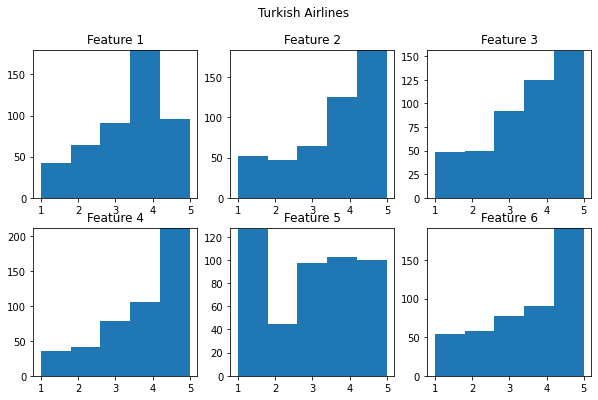
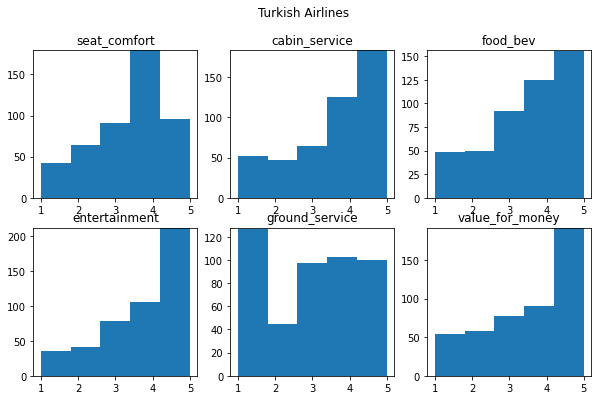
update image with feature name

diff --git a/README.md b/README.md
@@ -72,10 +72,13 @@ df_flight = pd.read_csv("capstone_airline_reviews3.csv", encoding="utf-8", encod
 **Visualization for a glimpse of dataset**  
 
 ![Screenshot](histogram.png)  
+The histogram shows the distribution of each quantitative data for each airline. 
 
 ![Screenshot](heatmap.png)  
+This correlation heatmap presents the correlations between six features in the flight dataset, including seat comfort score, cabin service score, food or beverage score, entertainment score, ground service score, and evaluation score of the value of money. 
 
 ![Screenshot](violin_distribution.png)  
+The violin plot visually represents the distribution of overall scores (ranging from 0 to 10) for airline journeys, with the scores on the y-axis and recommendations on the x-axis, divided into two categories: "yes" and "no." 
 
 **Decision Tree Classifier Model Setup**  
 For Decision Tree Classier model, we use 'overall', 'seat_comfort', 'cabin_service', 'food_bev', 'entertainment', 'ground_service', 'value_for_money', 'sentiment' features. To train a decision tree classifier, we preprocess the dataset by encoding categorical variables into dummy variables, scaling numerical variables, and splitting the data into training and testing sets.
